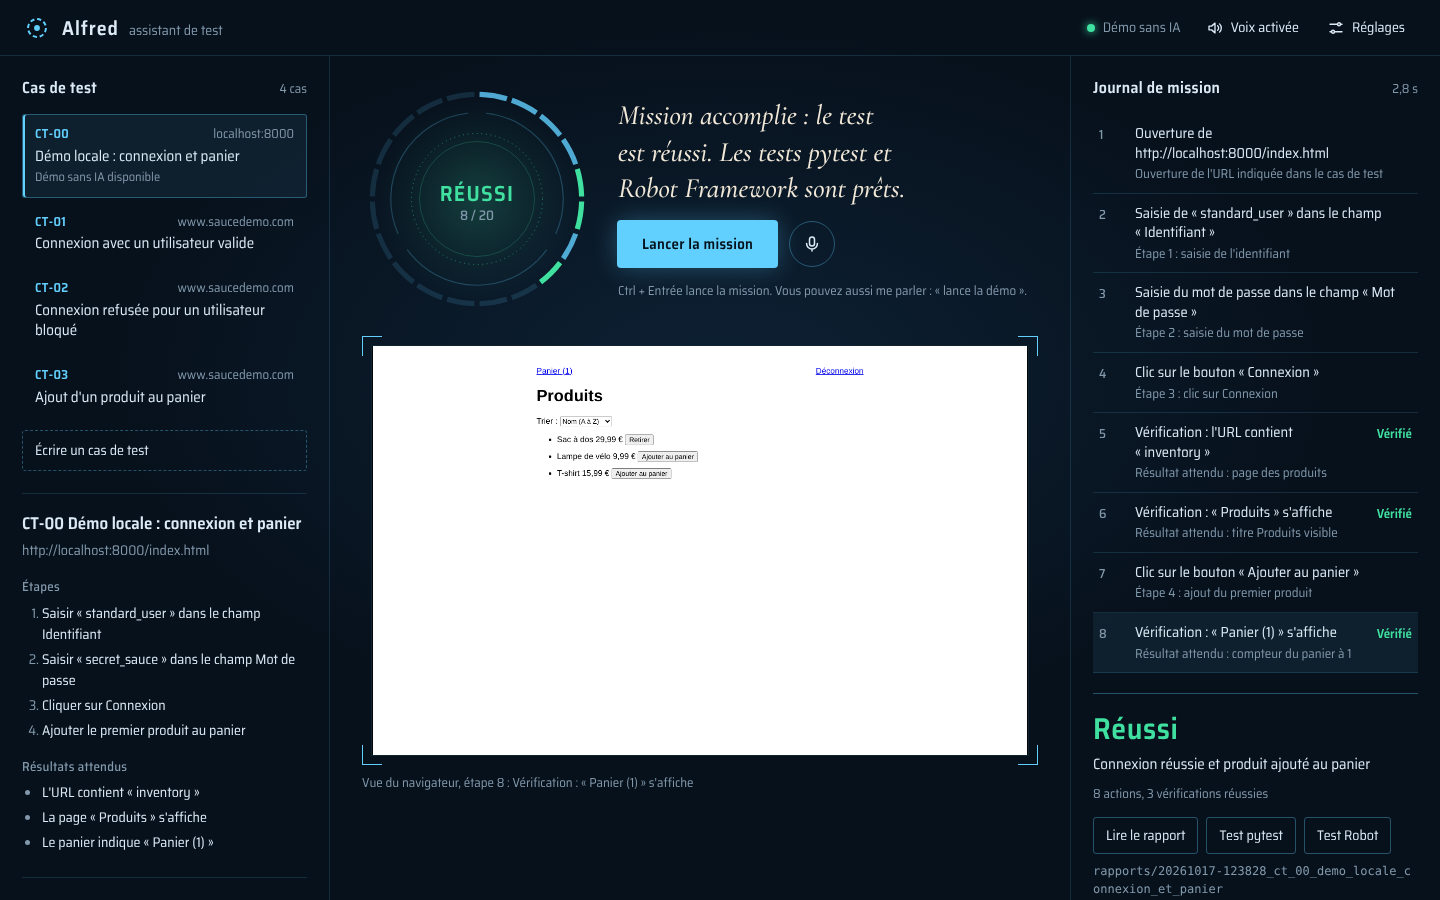
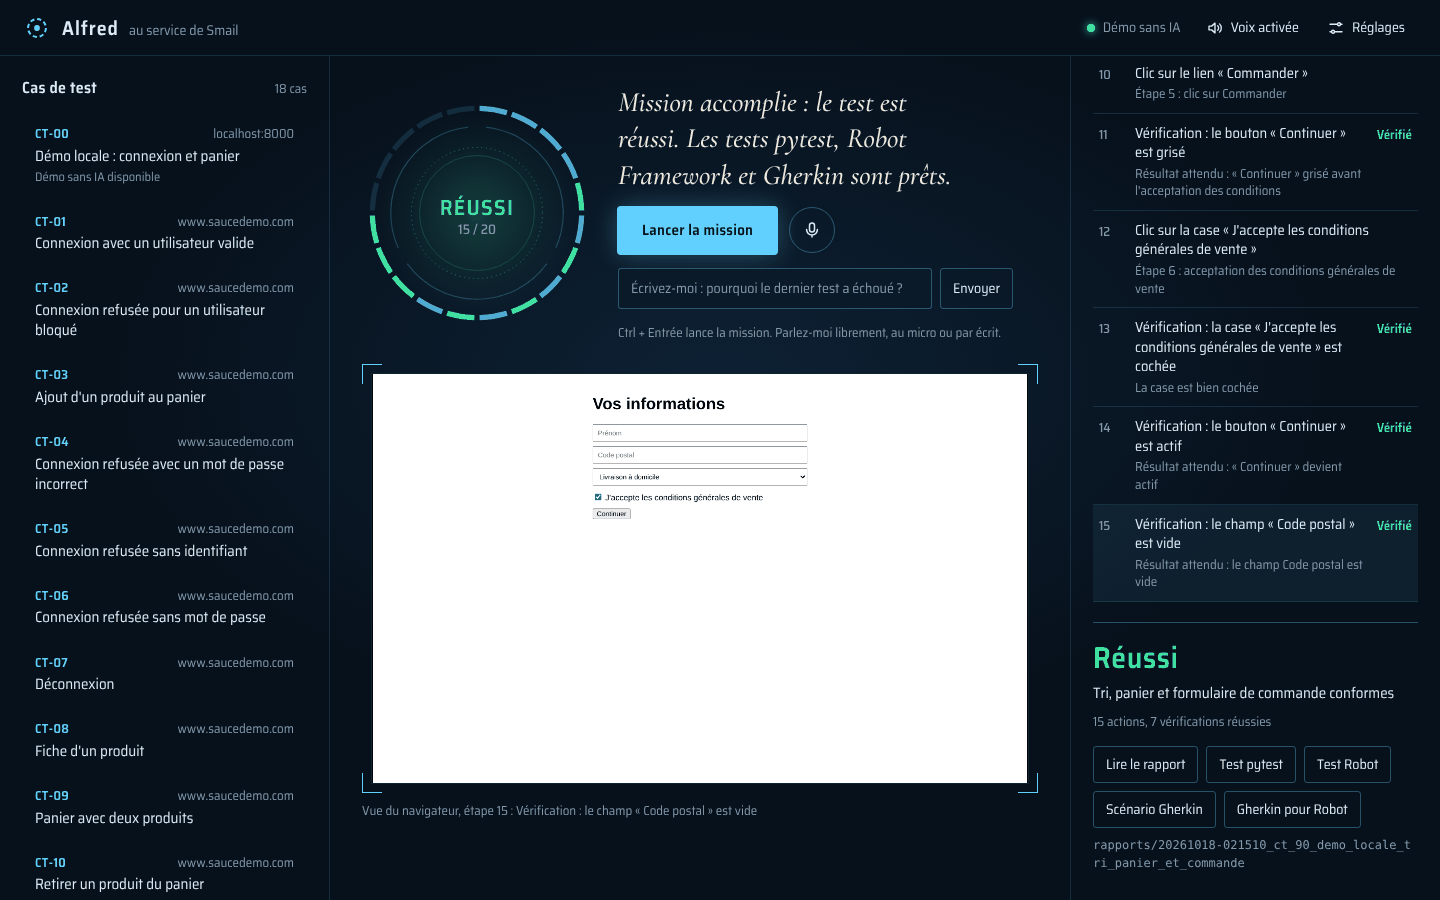
Nouvelles fonctionnalités et README mis à jour

diff --git a/README.md b/README.md
@@ -2,40 +2,44 @@
 
 ![Tests](https://github.com/smail-ops/agent-qa-playwright/actions/workflows/tests.yml/badge.svg)
 
-Un agent IA qui exécute un cas de test écrit en français, comme le ferait un testeur, puis génère le test automatisé correspondant.
+Un agent IA qui conçoit, exécute et analyse des tests web, comme le ferait un testeur.
 
-On lui donne un cas de test (étapes et résultats attendus, comme dans Squash TM). L'agent pilote un vrai navigateur avec Playwright, vérifie chaque résultat attendu et produit :
+On lui donne l'adresse d'un site, ou un cas de test écrit en français comme dans Squash TM. Il pilote un vrai navigateur avec Playwright, vérifie chaque résultat attendu, puis produit des tests automatisés qui se rejouent ensuite **sans IA** : gratuits, rapides et toujours identiques.
 
-- un **rapport** avec le statut (PASS, FAIL ou BLOQUÉ), le détail de chaque action, la raison donnée par l'IA et une capture d'écran par étape ;
-- un **script pytest-playwright** qui rejoue le test sans IA, prêt pour une campagne de non-régression ;
-- un **test Robot Framework** (SeleniumLibrary) qui rejoue le même parcours avec Selenium ;
-- un **scénario Gherkin** en français (Étant donné que, Quand, Alors), avec sa version exécutable par Robot Framework ;
-- une **fiche d'anomalie** quand le test échoue : étapes pour reproduire, résultat obtenu et attendu, capture, et un diagnostic proposé par l'IA.
+| | Ce que fait l'agent |
+|---|---|
+| **Concevoir** | À partir d'une URL, il analyse le site et propose des **user stories** avec leurs critères d'acceptation en **Gherkin**, puis les **cas de test** d'une user story. |
+| **Exécuter** | Il exécute un cas de test, en Markdown ou en Gherkin, avec six familles de vérifications (texte, URL, ordre, nombre, valeur d'un champ, état d'un bouton ou d'une case). Avec la **vision**, le modèle voit aussi l'écran. |
+| **Industrialiser** | Chaque exécution génère un test **pytest-playwright**, un test **Robot Framework** (SeleniumLibrary) et un **scénario Gherkin** exécutable. Un parcours réussi est **mémorisé** et rejoué sans IA ; si le site change, l'IA répare le parcours (**auto-réparation**). |
+| **Analyser** | Quand un test échoue, il rédige la **fiche d'anomalie** (étapes pour reproduire, résultat obtenu et attendu, capture), avec un diagnostic de l'IA présenté comme un avis à confirmer. |
+| **Piloter** | **Alfred**, une interface vocale, commente la mission en direct et répond aux questions : « pourquoi le dernier test a échoué ? », « refais le test de connexion sur le site de recette ». |
 
-L'IA sert surtout la première fois. Un parcours réussi est gardé en **mémoire** : les exécutions suivantes le rejouent sans appeler le modèle, et si le site a changé, l'IA reprend la main là où le parcours ne fonctionne plus (**auto-réparation**). Les tests générés, eux, tournent sans aucune IA : gratuits, rapides et déterministes.
+L'IA propose, le programme vérifie : le verdict vient toujours des vérifications réelles, jamais de l'avis du modèle (voir [Les garde-fous](#les-garde-fous)).
 
-L'agent aide aussi à **concevoir** les tests : à partir de l'adresse d'un site, il analyse les pages et **propose des user stories** avec leurs critères d'acceptation en Gherkin, puis **les cas de test** d'une user story. Les scénarios Gherkin retenus se lancent ensuite comme des cas de test. Avec la **vision**, le modèle voit aussi la capture d'écran de la page.
-
-L'agent se pilote en ligne de commande ou avec **Alfred**, une interface vocale qui commente la mission en direct et avec qui l'on parle librement : « pourquoi le dernier test a échoué ? », « relance le test de connexion sur le site de recette », ou un cas de test dicté à voix haute (voir [Alfred, l'interface vocale](#alfred-linterface-vocale)).
-
-![Alfred à la fin d'une mission : cadran, vue du navigateur et journal des étapes](docs/alfred.png)
+![Alfred à la fin d'une mission de démo : la liste des cas, le cadran, la vue du navigateur, le journal des étapes et les tests générés](docs/alfred.png)
 
 ## Comment ça marche
 
 ```mermaid
 flowchart LR
-    CT[Cas de test en français] --> A[Agent]
-    MEM[(Mémoire des parcours)] -. parcours connu .-> A
+    subgraph Concevoir
+        URL[Adresse du site] --> AN[Relevé des pages, sans IA]
+        AN --> US[User stories et critères Gherkin]
+        US --> CT[Cas de test]
+    end
+    CT --> A[Agent]
+    MEM[(Mémoire des parcours)] -. parcours connu, sans IA .-> A
     A -- état de la page --> M[Modèle IA : Gemini ou Claude]
     M -- action en JSON --> A
     A -- clic, saisie, vérification --> N[Navigateur Playwright]
     N -- nouvelle page --> A
-    A --> R[Rapport + captures]
     A --> S[Tests pytest, Robot Framework et Gherkin]
-    A -- échec --> F[Fiche d'anomalie]
+    A --> R[Rapport, captures, resultat.json]
+    A -- échec --> F[Fiche d'anomalie et diagnostic]
+    AL[Alfred : voix et conversation] -.-> A
 ```
 
-À chaque tour :
+À chaque tour de l'agent :
 
 1. **Observer** : l'agent liste les éléments visibles de la page (champs, boutons, liens, listes, cases à cocher) et les numérote.
 2. **Décider** : il envoie au modèle le cas de test, l'historique et cette liste. Le modèle répond par une seule action en JSON, par exemple `{"action": "fill", "args": {"ref": 1, "text": "standard_user"}}`.
@@ -227,6 +231,8 @@ L'agent peut aussi préparer les tests. Dans Alfred, le bouton « Proposer des u
 
 On coche les propositions à garder. Une user story devient un fichier `cas_de_test/US-xx_....feature`, dont chaque scénario se lance comme un cas de test. Un cas devient `cas_de_test/CT-xx_....md`, avec le prochain numéro libre.
 
+![Les user stories proposées pour le site de démo, avec leurs critères d'acceptation en Gherkin](docs/propositions.png)
+
 Pendant l'analyse, rien n'est modifié sur le site : seuls les liens du même site sont suivis, jamais ceux qui pourraient déconnecter, supprimer ou payer, et aucun bouton n'est cliqué. Pour voir les pages réservées aux utilisateurs, on peut donner un **compte de test** : Alfred remplit le formulaire de connexion de la première page. Le mot de passe sert uniquement à cette connexion : il n'est ni envoyé au modèle, ni affiché, ni enregistré. Comme le modèle ne le connaît pas, il écrit `<mot de passe>` dans ses propositions (à compléter dans le fichier), sauf si le site l'affiche en clair, comme SauceDemo.
 
 Le moteur « Démo sans IA » rejoue des réponses enregistrées pour le site de démo local : de quoi essayer sans clé d'API.
@@ -373,7 +379,7 @@ Avec Gemini ou Claude, le modèle reçoit ensuite les faits (cas de test, histor
 
 ## Tests du projet
 
-Les tests utilisent le site de démo local et le fournisseur `scripted` : ils ne demandent ni clé d'API ni connexion Internet.
+Les 218 tests du projet utilisent le site de démo local et le fournisseur `scripted` : ils ne demandent ni clé d'API ni connexion Internet.
 
 ```bash
 pytest
